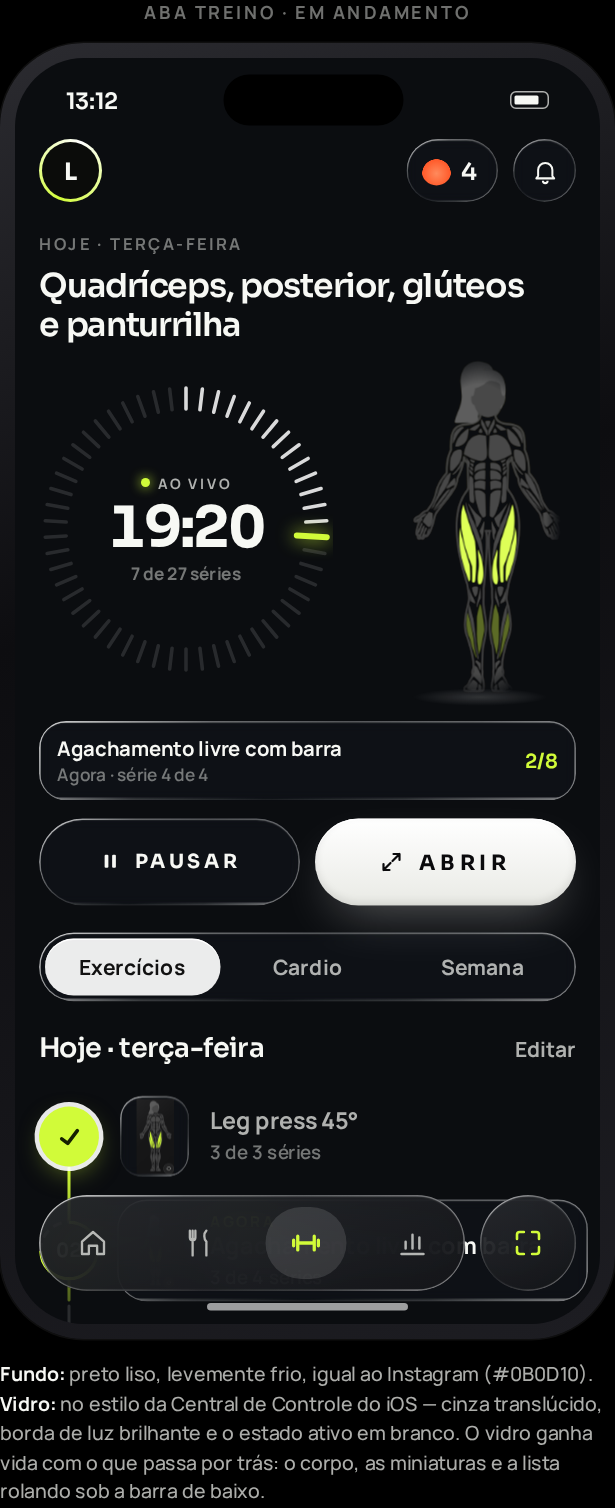
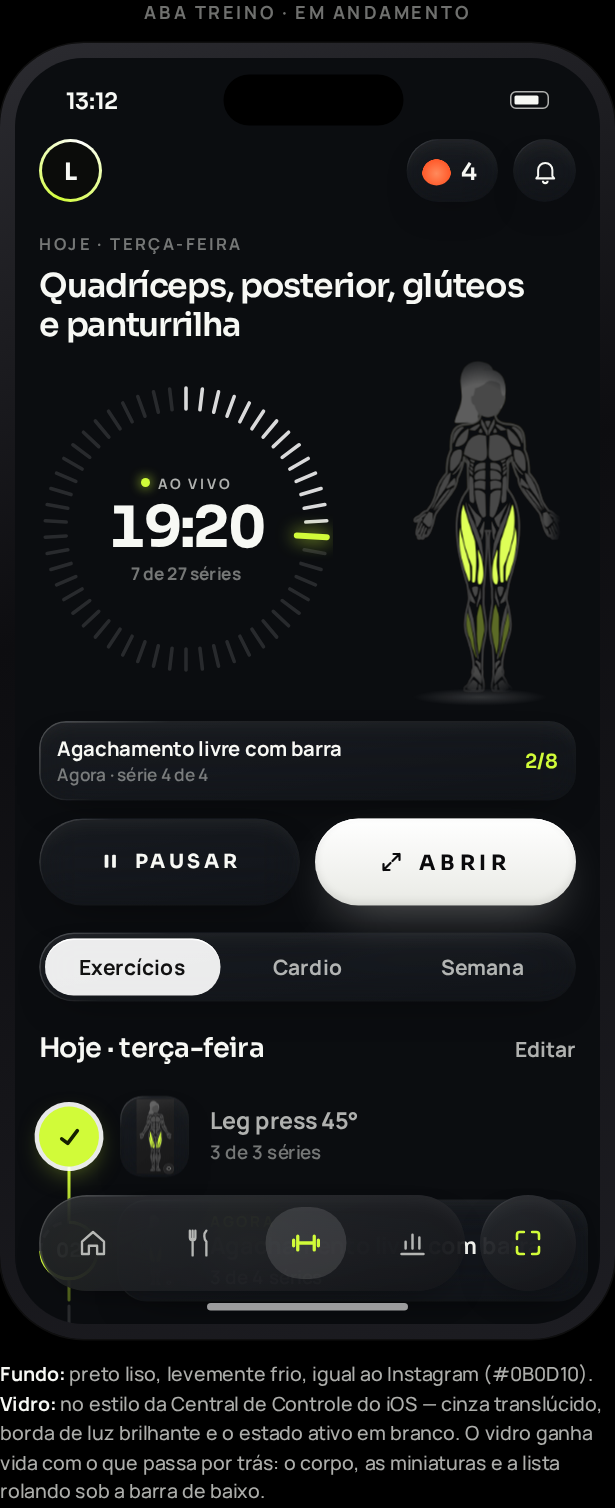
Vidro sem contorno branco na proposta estilo iOS
Claude-Session: https://claude.ai/code/session_012t93SzLcEenD5Rt5kwwiQ7

Changed region(s): [[0.9268, 0.8103, 0.9577, 0.8415], [0.4016, 0.5922, 0.4325, 0.6233], [0.0618, 0.4987, 0.0927, 0.5298]]

diff --git a/design-reference/fundos/ios.html b/design-reference/fundos/ios.html
@@ -240,8 +240,8 @@ svg{display:block}
 .screen.esc::before{display:none}
 /* vidro estilo iOS (Central de Controle / barra do Instagram): cinza translúcido,
    desfoque forte do que passa por trás, borda de luz brilhante em cima/esquerda e embaixo/direita */
-.esc .lg{background:rgba(255,255,255,.018);backdrop-filter:blur(4px) saturate(160%);-webkit-backdrop-filter:blur(4px) saturate(160%);box-shadow:inset 0 1px 1px rgba(255,255,255,.34),inset 0 -1px 1px rgba(255,255,255,.08)}
-.esc .lg::before{padding:1.4px;background:linear-gradient(135deg,rgba(255,255,255,.75),rgba(255,255,255,.12) 28%,rgba(255,255,255,0) 50%,rgba(255,255,255,.1) 72%,rgba(255,255,255,.45))}
+.esc .lg{background:linear-gradient(170deg,rgba(255,255,255,.06),rgba(255,255,255,.03));backdrop-filter:blur(14px) saturate(180%);-webkit-backdrop-filter:blur(14px) saturate(180%);box-shadow:inset 0 10px 18px -12px rgba(255,255,255,.10),0 10px 28px -16px rgba(0,0,0,.7)}
+.esc .lg::before{padding:1px;background:linear-gradient(135deg,rgba(255,255,255,.22),rgba(255,255,255,0) 22%,rgba(255,255,255,0) 100%)}
 .esc .lg::after{display:none}
 .esc .fade{display:none}
 .esc .nav{bottom:22px}
